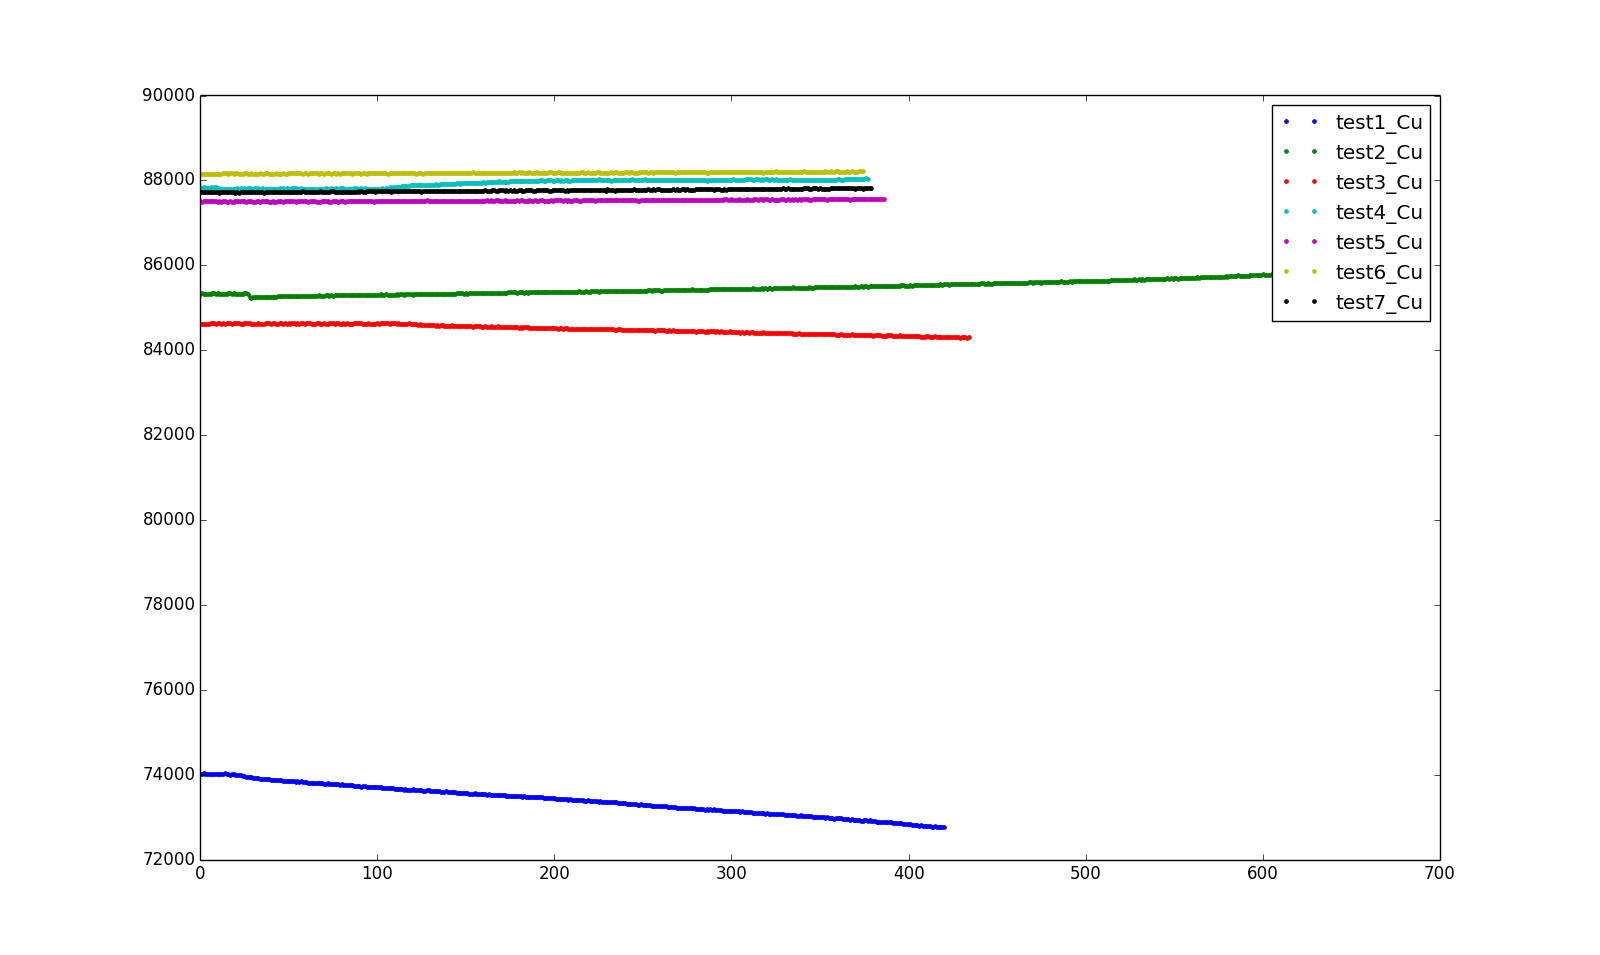
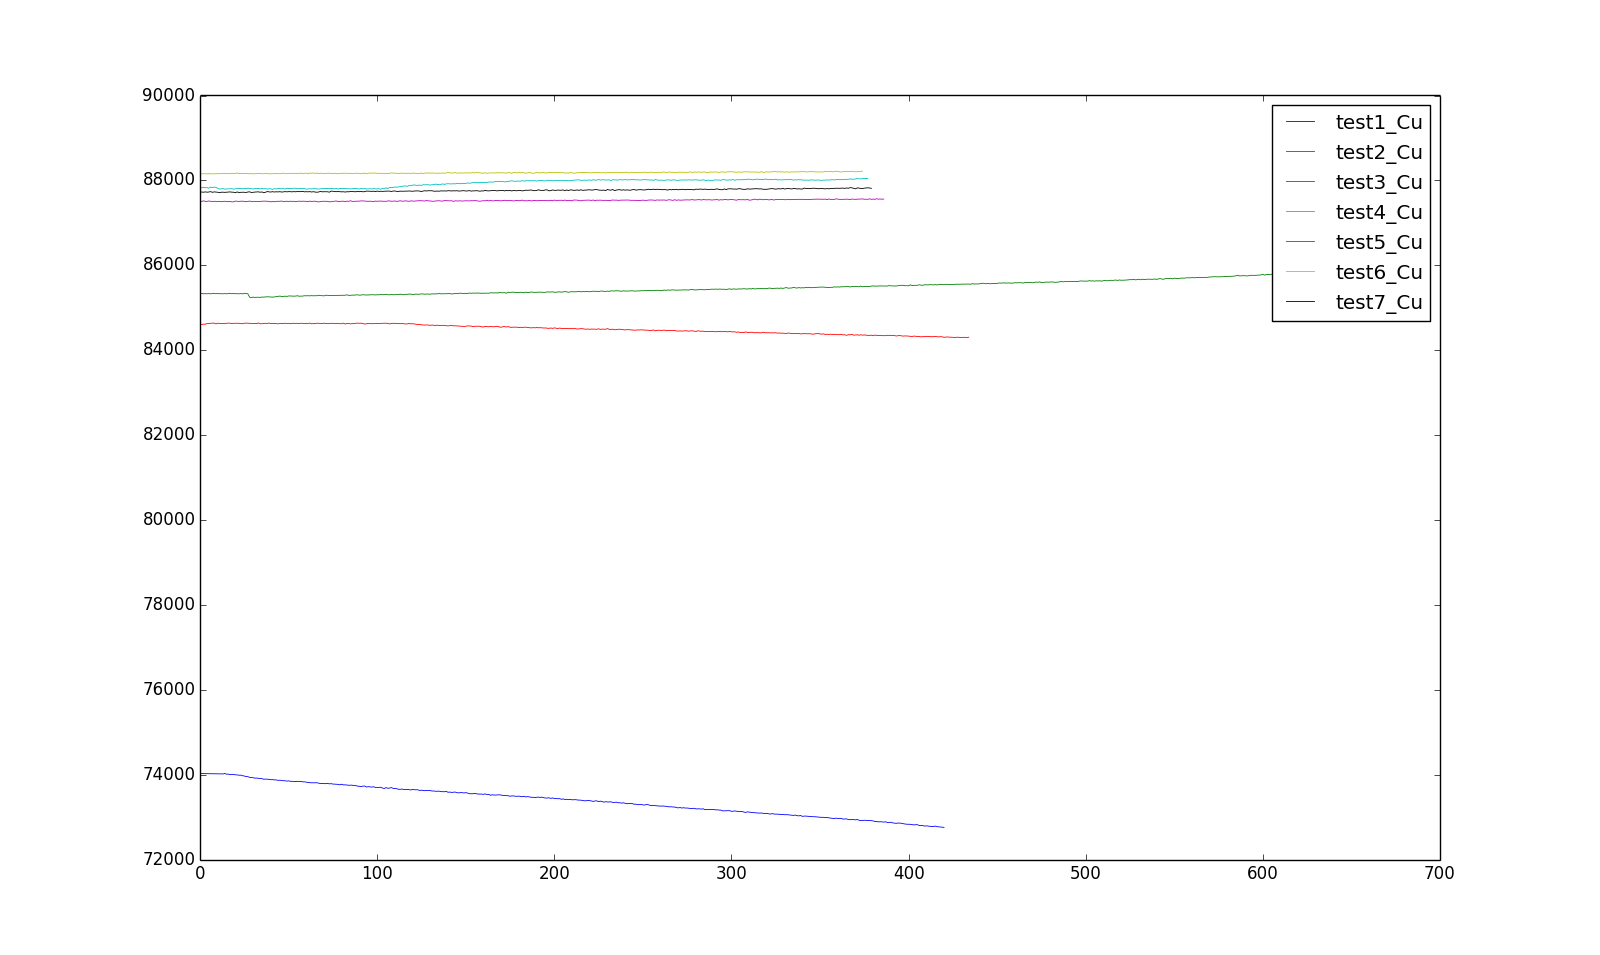
minorChgsPlotting

diff --git a/scripts/plot.py b/scripts/plot.py
@@ -9,7 +9,7 @@ os.getcwd()
 # print (os.getcwd())
 
 # data plotting
-for j in range(1):
+for j in range(7):
     file = open("../calibTest_1_15-3/forceData15-3/test{}_Cu.txt".format(j+1), "r")
     data = file.read()
     # print (type(data))
@@ -26,13 +26,13 @@ for j in range(1):
     # print len(a)
     # print (b)
     # yconst = signal.detrend(a, type='linear')
-    del b[-1]
-    c = np.ediff1d(a).tolist()
-    slope, intercept, r_value, p_value, std_err = scipy.stats.linregress(c,b)
+    # del b[-1]
+    # c = np.ediff1d(a).tolist()
+    # slope, intercept, r_value, p_value, std_err = scipy.stats.linregress(a,b)
     # print abs(slope)
-    print np.degrees(np.arctan(slope)) #print slope in degrees
+    # print np.degrees(np.arctan(slope)) #print slope in degrees
     # print ("max - min is: "+str(max(a)-min(a)))
-    plt.plot(map(abs,c),linewidth = 0.25, label = "test{}_Cu".format(j+1))
+    plt.plot(b,a,linewidth = 0.6, label = "test{}_Cu".format(j+1))
     # plt.plot(yconst,linewidth = 0.25, label = "test{}_Cu".format(j+1))
     plt.hold(True)
 #
